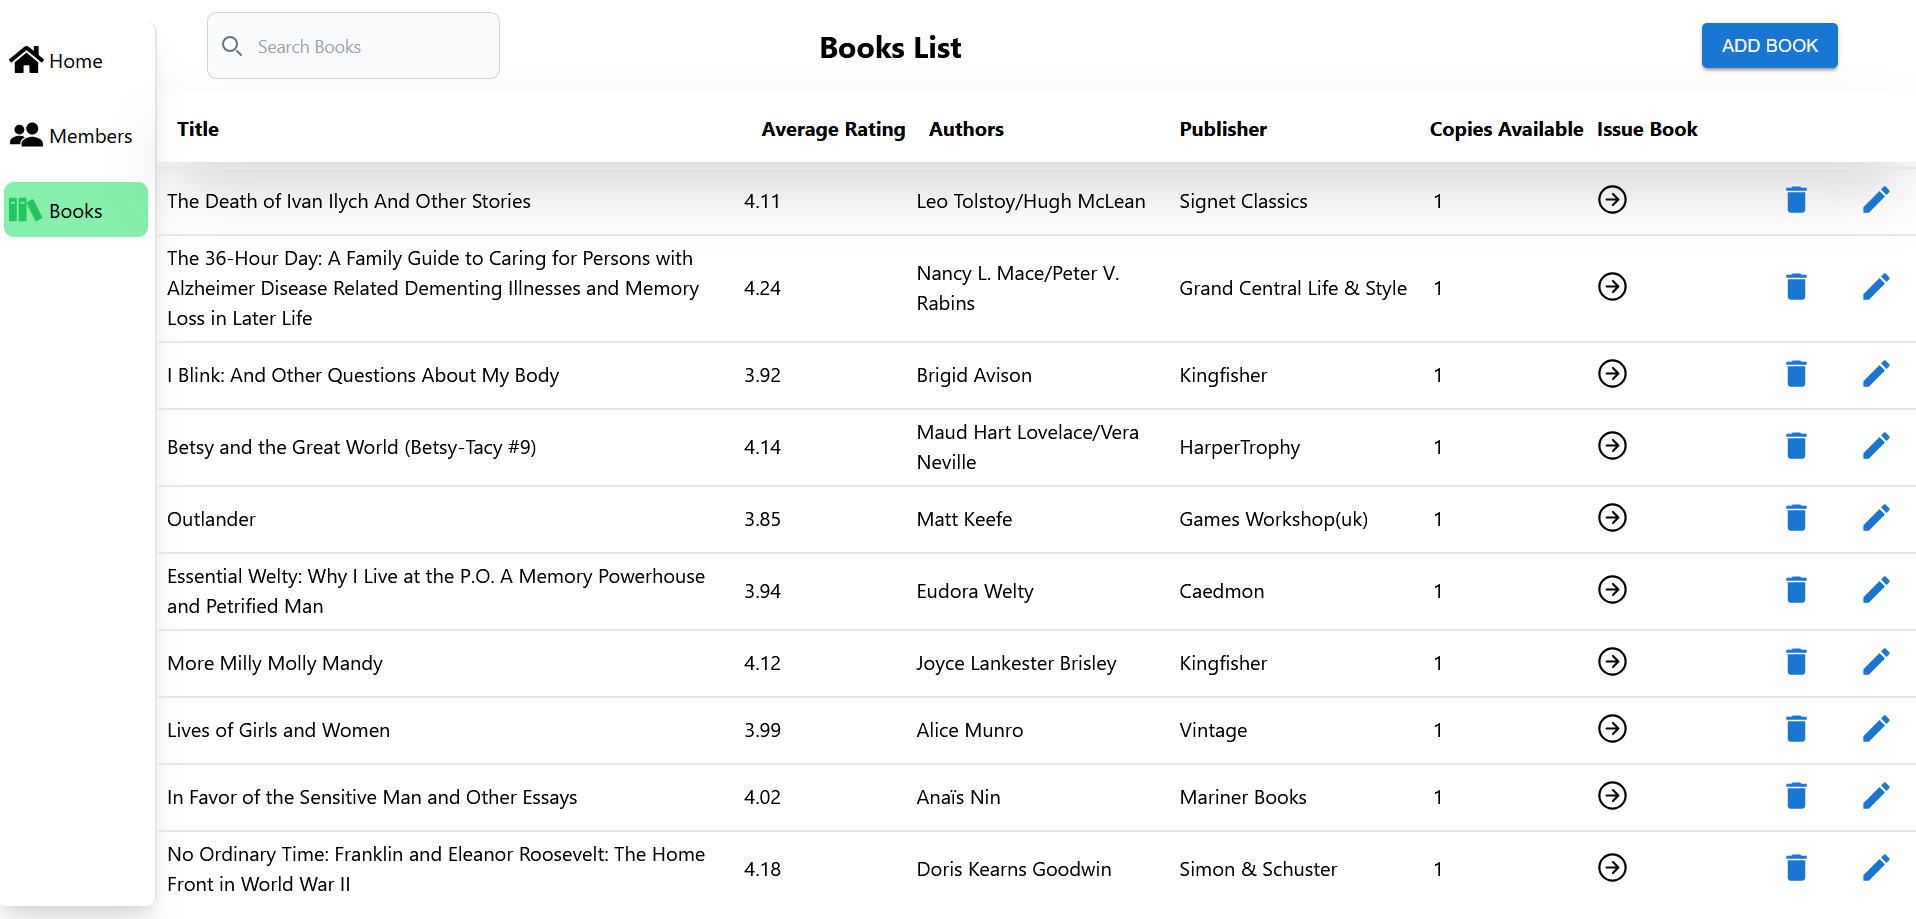
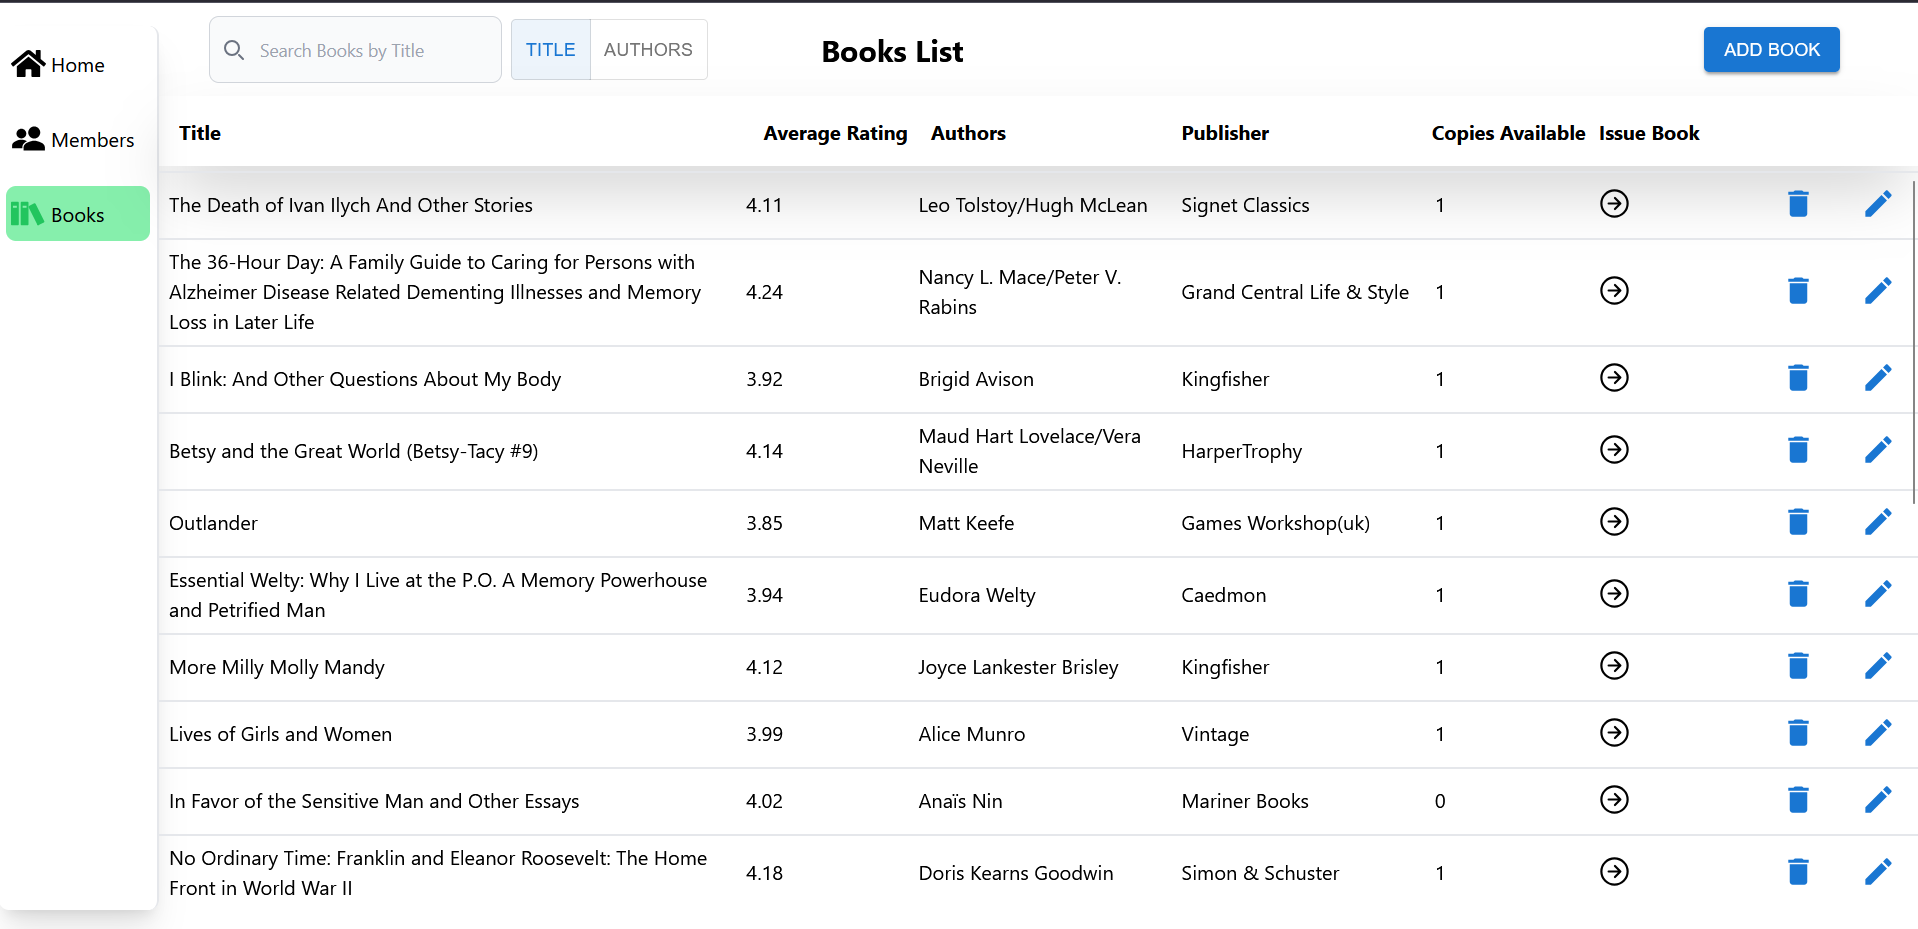
search options for book added

diff --git a/frontend/components/renderer/BooksRenderer.jsx b/frontend/components/renderer/BooksRenderer.jsx
@@ -13,6 +13,7 @@ import {
     issueBookAtom, 
     openBookPopUpAtom, 
     popUpAtom, 
+    searchParamsAtom, 
     searchTextAtom, 
     selectedBookObjAtom,
     selectedMemberObjAtom,} from '@/store/store'
@@ -27,6 +28,8 @@ function BooksRenderer() {
     const [books,setBooks] = useAtom(booksArrayAtom);
 
     const searchText = useAtomValue(searchTextAtom);
+
+    const searchParams = useAtomValue(searchParamsAtom);
 
     const [filteredBooks,setFilteredBooks] = useState([]);
 
@@ -43,9 +46,9 @@ function BooksRenderer() {
     const setEditBook = useSetAtom(editBookAtom);
 
     useEffect(() => {
-      const searchResults = searchBooks({ books, searchText })
+      const searchResults = searchBooks({ books, searchText, searchParams })
       setFilteredBooks(searchResults)
-    },[searchText,books])
+    },[searchText,books,searchParams])
 
     const handleClickOpen = (book) => {
       if ( book.copies_available <= 0) return toast.error('We ran out of books');
@@ -79,7 +82,9 @@ function BooksRenderer() {
   return (
     <>
         <div className='h-auto max-h-[80vh] w-full overflow-hidden overflow-y-auto'> 
-            {filteredBooks?.map((book,index) => (
+            {filteredBooks.length > 0 
+            ? 
+              filteredBooks?.map((book,index) => (
               <div className='w-full h-auto flex justify-around items-center my-1 py-1 border-t-2 '
               key={index}
               >
@@ -107,7 +112,12 @@ function BooksRenderer() {
                   />
                 </Button>
               </div>      
-            ))}  
+            ))
+          : (
+            <div className='w-full h-auto flex justify-around items-center my-1 py-1 border-t-2'>
+              No Books Found
+            </div>
+          )}  
         </div>
     </>
   )

diff --git a/frontend/components/ui/BooksCollection.jsx b/frontend/components/ui/BooksCollection.jsx
@@ -1,13 +1,15 @@
-import React from 'react'
+import React, { useState } from 'react'
 import { Button } from '@mui/material'
-import { useSetAtom } from 'jotai';
+import { useAtom, useSetAtom } from 'jotai';
 // Components
 import BooksRenderer from '../renderer/BooksRenderer'
 import Search from '../reusable/Search'
+import Toggle from '../reusable/Toggle';
 // Global States
 import { 
   editBookAtom, 
   openBookPopUpAtom, 
+  searchParamsAtom, 
   selectedBookObjAtom} from '@/store/store';
 
 function BooksCollection() {
@@ -16,6 +18,12 @@ function BooksCollection() {
   const setEditBook = useSetAtom(editBookAtom);
 
   const setSelectedBookObj = useSetAtom(selectedBookObjAtom);
+
+  const [searchParams,setSearchParams] = useAtom(searchParamsAtom);
+
+  const handleChange = (event, newParams) => {
+    setSearchParams(newParams);
+  }
 
   const openAddBook = () => {
     setSelectedBookObj({});
@@ -27,7 +35,10 @@ function BooksCollection() {
         <main className='min-h-screen w-11/12 text-start'>
           <div className='w-full flex justify-center items-center relative h-[10vh]'>
             <div className='w-1/6 absolute left-10'>
-              <Search placeholderText={'Search Books'} />
+              <Search placeholderText={`Search Books by ${searchParams}`} />
+            </div>
+            <div className='w-1/6 absolute left-[20%]'>
+                <Toggle searchParams={searchParams} handleChange={handleChange} />
             </div>
             <header className='text-center text-2xl font-bold w-full'>Books List</header>
             <div className='w-[20%] flex items-center justify-center'>

diff --git a/frontend/components/renderer/MembersRenderer.jsx b/frontend/components/renderer/MembersRenderer.jsx
@@ -109,7 +109,9 @@ function MembersRenderer() {
   return (
     <>
         <div className='h-auto max-h-[80vh] w-full overflow-hidden overflow-y-auto'> 
-            {filteredMembers?.map((member,index) => (
+            {filteredMembers.length > 0 
+            ? 
+            filteredMembers?.map((member,index) => (
               <div className='w-full h-auto flex justify-around items-center my-1 py-1 border-t-2'
               key={index}
               >
@@ -142,7 +144,12 @@ function MembersRenderer() {
                   />
                 </Button>
               </div>      
-            ))}  
+            ))
+          : (
+            <div className='w-full h-auto flex justify-around items-center my-1 py-1 border-t-2'>
+              No Members Found
+            </div>
+          )}  
         </div>
     </>
   )

diff --git a/frontend/utils/search/search.js b/frontend/utils/search/search.js
@@ -1,8 +1,9 @@
-const searchBooks = ({ books, searchText}) => {
+const searchBooks = ({ books, searchText, searchParams}) => {
     let searchResults = [];
     if (searchText !== "") {
         searchResults = books.filter(book => {
-            return book.title.toLowerCase().includes(searchText.toLowerCase())
+            if (searchParams === 'Title')  return book.title.toLowerCase().includes(searchText.toLowerCase());
+            else return book.authors.toLowerCase().includes(searchText.toLowerCase())
         });
     } else searchResults = books;
     return searchResults

diff --git a/frontend/components/reusable/Toggle.jsx b/frontend/components/reusable/Toggle.jsx
@@ -1,0 +1,20 @@
+import React from 'react'
+import { ToggleButton, ToggleButtonGroup } from '@mui/material';
+
+export default function Toggle({searchParams,handleChange}) {
+  return (
+    <>
+        <ToggleButtonGroup
+            color="primary"
+            value={searchParams}
+            exclusive
+            onChange={handleChange}
+            aria-label="Search Toggle"
+        >
+            <ToggleButton value="Title">Title</ToggleButton>
+            <ToggleButton value="Authors">Authors</ToggleButton>
+        </ToggleButtonGroup>
+    </>
+    
+  )
+} 

diff --git a/frontend/components/ui/MembersCollection.jsx b/frontend/components/ui/MembersCollection.jsx
@@ -28,7 +28,7 @@ function MembersCollection() {
         <main className='min-h-screen w-11/12 text-start'>
           <div className='w-full flex justify-center items-center relative h-[10vh]'>
             <div className='w-1/6 absolute left-10'>
-              <Search placeholderText={'Search Members'} />
+              <Search placeholderText={'Search Members by Name'} />
             </div>
             <header className='text-center text-2xl font-bold w-full'>Members</header>
 

diff --git a/frontend/store/store.js b/frontend/store/store.js
@@ -13,6 +13,8 @@ export const transactionArrayAtom = atom([]);
 
 export const searchTextAtom = atom('');
 
+export const searchParamsAtom = atom('Title');
+
 export const popUpAtom = atom(false);
 
 export const selectedBookObjAtom = atom({});
